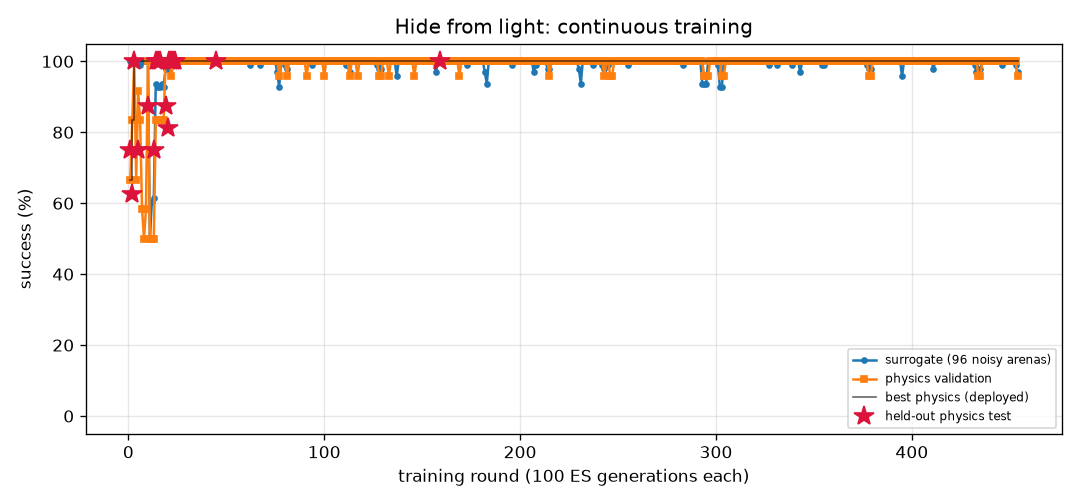
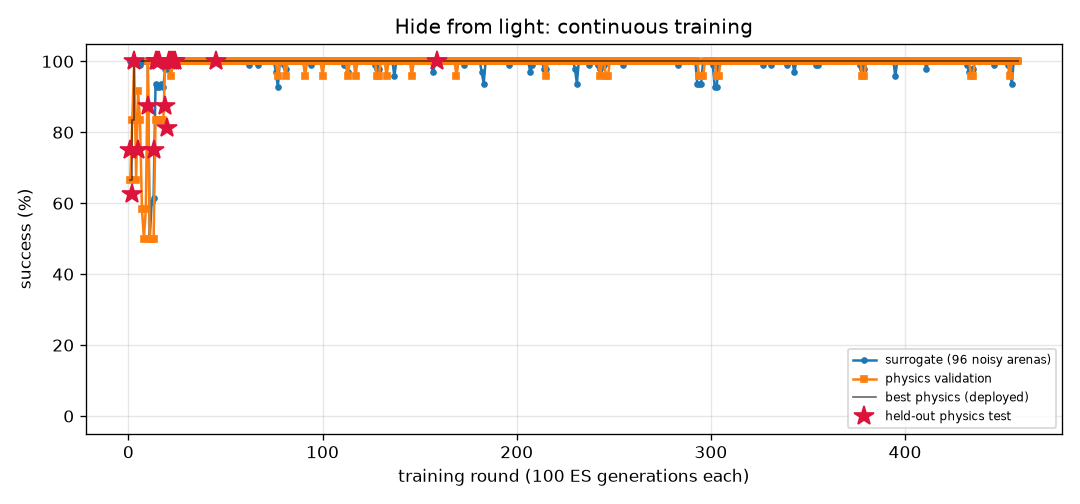
FlyLab: daily review 2026-11-01 — 7/7 optimal, all fresh checks 100%

diff --git a/projects/09_flylab/training/odor_avoid/REPORT.md b/projects/09_flylab/training/odor_avoid/REPORT.md
@@ -1,14 +1,14 @@
 # Escape a bad smell (`odor_avoid`) — training report
 
-*Auto-generated by `train_brains.py`, last updated 2026-11-01T18:18:09.*
+*Auto-generated by `train_brains.py`, last updated 2026-11-01T19:04:34.*
 
 ![curve](curve.png)
 
 | | |
 |---|---|
-| rounds | 720 |
-| ES generations | 72000 |
-| physics runs | 14586 |
+| rounds | 725 |
+| ES generations | 72500 |
+| physics runs | 14706 |
 | status | **optimal** |
 | best brain | round 373: physics validation **100%** on 24 arenas, surrogate 97% |
 | held-out physics test | **97%** on 32 unseen arenas (95% CI 84%-99%) (errors: [62.0, 57.4, 62.6, 61.9, 59.0, 61.6, 56.5, 60.7, 31.7, 60.9, 63.1, 57.1, 61.1, 62.1, 61.5, 60.2, 62.2, 55.2, 62.1, 54.2, 61.3, 62.0, 58.0, 61.9, 59.8, 56.5, 56.3, 56.4, 56.3, 57.7, 61.9, 32.4]) |
@@ -17,11 +17,6 @@ Physics error per arena: mm gained away from source (> 6 without first approachi
 
 | round | level | gens | sigma | surrogate | physics val | val errors | test | note |
 |---:|---:|---:|---:|---:|---:|---|---:|---|
-| 681 | 3 | 68100 | 0.027 | 94% | 96% | [60.3, 59.4, 55.9, 58.7, 60.6, 61.5, 61.2, 60.1, 61.1, 58.9, 60.5, 61.5, 51.5, 56.0, 44.2, 61.7, 61.4, 61.5, 50.4, 58.6, 61.3, 60.7, 58.4, 61.1] |  | restart from best |
-| 682 | 3 | 68200 | 0.026 | 95% | 100% | [63.4, 57.7, 57.9, 58.5, 62.0, 62.3, 61.4, 50.9, 59.5, 60.1, 62.2, 62.1, 54.6, 58.3, 51.5, 61.5, 62.0, 60.4, 55.1, 58.6, 62.2, 59.9, 57.6, 51.4] |  |  |
-| 683 | 3 | 68300 | 0.027 | 97% | 96% | [61.6, 60.4, 56.2, 60.1, 60.6, 60.8, 60.7, 45.5, 61.3, 32.3, 60.8, 61.4, 51.3, 55.9, 29.7, 59.9, 61.1, 60.8, 54.5, 59.5, 61.2, 44.0, 56.7, 59.6] |  |  |
-| 684 | 3 | 68400 | 0.026 | 92% | 88% | [60.0, 54.9, 53.2, 53.7, 60.8, 60.0, 59.8, 46.2, 60.4, 58.7, 59.0, 60.4, 48.5, 55.0, 49.9, 61.0, 60.8, 60.5, 52.3, 54.6, 60.6, 53.7, 57.7, 55.7] |  |  |
-| 685 | 3 | 68500 | 0.029 | 93% | 96% | [62.3, 60.5, 56.1, 56.3, 55.7, 57.6, 61.3, 60.1, 60.0, 42.6, 19.0, 61.8, 49.8, 56.2, 36.3, 61.1, 62.0, 60.7, 51.5, 58.1, 61.8, 60.7, 60.7, 61.7] |  | restart from best |
 | 686 | 3 | 68600 | 0.026 | 97% | 100% | [61.0, 59.1, 56.6, 60.6, 62.1, 61.6, 61.5, 53.4, 61.1, 44.7, 17.5, 61.4, 49.6, 56.0, 28.7, 60.3, 61.9, 58.7, 50.0, 59.6, 61.9, 53.6, 56.7, 61.0] |  |  |
 | 687 | 3 | 68700 | 0.026 | 97% | 100% | [62.6, 60.1, 56.6, 61.3, 62.5, 62.6, 62.1, 61.8, 62.7, 62.1, 62.5, 62.0, 55.2, 56.7, 51.8, 62.5, 62.2, 62.7, 52.6, 57.0, 62.0, 61.1, 61.3, 62.4] |  |  |
 | 688 | 3 | 68800 | 0.026 | 96% | 96% | [60.2, 57.0, 56.1, 57.0, 59.0, 59.0, 60.7, 56.6, 60.6, 44.2, 26.7, 60.7, 47.2, 55.5, 9.5, 55.6, 60.7, 54.4, 49.4, 56.1, 61.0, 58.2, 54.4, 58.3] |  |  |
@@ -57,3 +52,8 @@ Physics error per arena: mm gained away from source (> 6 without first approachi
 | 718 | 3 | 71800 | 0.026 | 94% | 96% | [62.8, 61.4, 56.2, 55.6, 62.4, 62.1, 61.2, 36.2, 61.4, 56.6, 60.8, 62.1, 52.2, 54.1, 40.6, 60.7, 62.3, 61.7, 55.0, 59.3, 62.2, 50.8, 59.8, 45.6] |  |  |
 | 719 | 3 | 71900 | 0.028 | 93% | 100% | [62.5, 58.2, 58.1, 57.5, 60.4, 60.2, 61.6, 55.1, 62.1, 39.1, 48.0, 60.5, 52.6, 55.2, 33.6, 61.9, 61.5, 58.7, 52.2, 59.8, 60.6, 62.1, 60.2, 62.9] |  |  |
 | 720 | 3 | 72000 | 0.028 | 95% | 96% | [63.3, 61.3, 58.8, 61.5, 61.8, 63.0, 62.2, 60.5, 60.6, 62.9, 62.3, 60.7, 55.1, 58.4, 51.6, 62.4, 61.7, 62.9, 55.6, 61.1, 61.0, 63.0, 61.8, 63.0] |  |  |
+| 721 | 3 | 72100 | 0.027 | 95% | 96% | [63.1, 61.2, 58.4, 61.3, 61.5, 62.2, 61.1, 51.5, 61.2, 59.8, 60.7, 60.6, 52.3, 57.7, 46.3, 61.9, 59.7, 62.0, 53.3, 59.2, 59.9, 61.6, 59.9, 62.3] |  | restart from best |
+| 722 | 3 | 72200 | 0.026 | 95% | 96% | [59.6, 56.3, 55.3, 55.2, 58.7, 59.4, 60.3, 58.3, 60.3, 58.4, 40.7, 60.4, 35.7, 51.4, 28.6, 59.5, 60.4, 58.3, 45.1, 55.7, 60.2, 58.0, 54.7, 58.6] |  |  |
+| 723 | 3 | 72300 | 0.027 | 97% | 100% | [59.2, 59.2, 56.0, 59.9, 60.5, 57.0, 61.1, 55.4, 60.8, 57.3, 48.0, 60.6, 49.5, 55.6, 7.1, 60.8, 60.7, 53.5, 49.8, 55.7, 60.9, 58.7, 59.9, 51.4] |  |  |
+| 724 | 3 | 72400 | 0.026 | 98% | 92% | [58.9, 57.0, 54.7, 58.3, 59.5, 57.0, 59.1, 55.8, 59.3, 41.5, 5.1, 60.1, 48.5, 53.7, 23.2, 36.4, 59.9, 54.6, 48.5, 54.7, 60.1, 53.7, 58.3, 57.3] |  |  |
+| 725 | 3 | 72500 | 0.025 | 98% | 96% | [56.5, 51.7, 52.5, 53.5, 54.2, 47.2, 53.2, 38.3, 53.9, 49.7, 50.3, 56.1, 45.2, 50.2, 39.0, 53.7, 56.2, 46.2, 48.5, 50.0, 55.8, 55.0, 53.2, 53.2] |  | restart from best |

diff --git a/projects/09_flylab/training/light_avoid/REPORT.md b/projects/09_flylab/training/light_avoid/REPORT.md
@@ -1,14 +1,14 @@
 # Hide from light (`light_avoid`) — training report
 
-*Auto-generated by `train_brains.py`, last updated 2026-11-01T15:37:53.*
+*Auto-generated by `train_brains.py`, last updated 2026-11-01T19:13:43.*
 
 ![curve](curve.png)
 
 | | |
 |---|---|
-| rounds | 454 |
-| ES generations | 45400 |
-| physics runs | 11168 |
+| rounds | 458 |
+| ES generations | 45800 |
+| physics runs | 11264 |
 | status | **optimal** |
 | best brain | round 159: physics validation **100%** on 24 arenas, surrogate 100% |
 | held-out physics test | **100%** on 32 unseen arenas (95% CI 89%-100%) (errors: [14.4, 56.1, 58.0, 57.9, 57.5, 14.0, 14.4, 56.6, 56.8, 13.3, 14.1, 56.6, 57.6, 13.1, 57.3, 55.9, 57.2, 55.0, 55.2, 53.9, 55.2, 12.4, 53.8, 53.7, 14.1, 13.7, 55.0, 57.8, 56.2, 13.1, 52.8, 56.5]) |
@@ -17,10 +17,6 @@ Physics error per arena: mm gained away from source (> 6 without first approachi
 
 | round | level | gens | sigma | surrogate | physics val | val errors | test | note |
 |---:|---:|---:|---:|---:|---:|---|---:|---|
-| 415 | 3 | 41500 | 0.024 | 100% | 100% | [57.2, 61.9, 61.6, 57.8, 61.7, 58.6, 60.4, 14.5, 57.0, 13.3, 60.1, 61.5, 14.4, 59.5, 61.7, 57.3, 14.2, 62.2, 62.3, 14.4, 58.5, 60.3, 59.9, 60.9] |  | restart from best |
-| 416 | 3 | 41600 | 0.024 | 100% | 100% | [57.0, 58.8, 58.6, 56.7, 58.5, 57.0, 57.4, 14.5, 54.1, 13.3, 57.8, 58.3, 14.4, 56.4, 58.7, 56.6, 14.2, 59.0, 59.3, 14.4, 55.0, 57.5, 57.2, 57.8] |  |  |
-| 417 | 3 | 41700 | 0.024 | 100% | 100% | [43.2, 44.1, 43.7, 44.7, 47.1, 42.8, 41.5, 14.5, 43.8, 13.3, 47.0, 47.5, 14.4, 46.9, 43.8, 44.8, 14.2, 46.9, 44.6, 14.4, 43.3, 46.8, 42.9, 47.4] |  |  |
-| 418 | 3 | 41800 | 0.024 | 100% | 100% | [48.5, 46.6, 46.2, 47.7, 49.5, 49.0, 44.5, 14.5, 48.7, 13.3, 49.1, 49.6, 14.4, 48.7, 46.1, 48.6, 14.2, 49.5, 45.7, 14.4, 47.9, 49.5, 45.9, 48.7] |  |  |
 | 419 | 3 | 41900 | 0.024 | 100% | 100% | [55.4, 57.8, 57.7, 55.5, 56.3, 55.3, 57.0, 14.5, 51.5, 13.3, 55.3, 56.0, 14.4, 55.2, 57.8, 54.9, 14.2, 57.0, 58.2, 14.4, 53.0, 54.7, 57.0, 55.4] |  | restart from best |
 | 420 | 3 | 42000 | 0.024 | 100% | 100% | [50.0, 54.3, 54.0, 51.8, 54.5, 50.2, 52.4, 14.5, 40.2, 13.4, 53.0, 54.3, 14.4, 53.7, 54.2, 53.1, 14.2, 54.8, 54.6, 14.4, 51.3, 53.5, 52.2, 54.0] |  |  |
 | 421 | 3 | 42100 | 0.024 | 100% | 100% | [55.6, 58.0, 57.8, 55.6, 57.2, 54.6, 56.5, 14.5, 53.5, 13.3, 57.1, 57.1, 14.3, 55.0, 57.9, 54.7, 14.2, 57.8, 58.2, 14.4, 55.1, 57.0, 56.1, 56.4] |  |  |
@@ -57,3 +53,7 @@ Physics error per arena: mm gained away from source (> 6 without first approachi
 | 452 | 3 | 45200 | 0.024 | 100% | 100% | [51.2, 54.7, 54.2, 52.9, 56.2, 52.3, 52.6, 14.5, 53.5, 13.3, 56.4, 56.4, 14.4, 54.6, 54.7, 51.5, 14.2, 56.5, 54.4, 14.4, 54.0, 56.4, 53.3, 55.8] |  |  |
 | 453 | 3 | 45300 | 0.024 | 99% | 100% | [35.6, 37.5, 36.2, 37.2, 40.8, 36.3, 35.5, 14.5, 39.8, 13.5, 41.0, 41.5, 14.4, 41.6, 36.5, 30.3, 14.2, 39.6, 37.9, 14.4, 8.4, 42.2, 34.3, 41.5] |  |  |
 | 454 | 3 | 45400 | 0.025 | 97% | 96% | [9.8, 57.4, 56.5, 52.6, 58.8, 53.9, 54.7, 14.5, 43.9, 13.3, 57.6, 58.3, 14.4, 57.2, 56.7, 8.9, 14.2, 58.5, 57.8, 14.4, 8.8, 56.0, 55.4, 58.2] |  |  |
+| 455 | 3 | 45500 | 0.026 | 94% | 100% | [6.1, 57.9, 57.9, 7.4, 59.6, 8.6, 55.9, 14.5, 53.2, 13.4, 55.7, 59.2, 14.4, 57.7, 58.0, 9.0, 14.2, 59.3, 59.2, 14.4, 8.7, 57.2, 56.4, 58.9] |  | restart from best |
+| 456 | 3 | 45600 | 0.024 | 100% | 100% | [51.7, 55.4, 55.0, 52.8, 57.1, 53.2, 53.1, 14.5, 55.0, 13.3, 56.5, 57.0, 14.3, 55.8, 54.8, 51.8, 14.2, 57.1, 55.7, 14.4, 49.4, 56.7, 54.0, 56.6] |  |  |
+| 457 | 3 | 45700 | 0.024 | 100% | 100% | [51.8, 55.7, 55.5, 51.9, 55.7, 52.8, 54.1, 14.5, 46.5, 13.6, 55.5, 55.5, 14.4, 54.1, 55.5, 51.1, 14.2, 56.1, 56.0, 14.4, 53.3, 55.4, 53.8, 55.1] |  |  |
+| 458 | 3 | 45800 | 0.024 | 100% | 100% | [56.6, 60.6, 60.3, 57.5, 60.2, 57.3, 58.9, 14.5, 51.5, 13.5, 59.8, 60.1, 14.4, 57.9, 60.4, 55.9, 14.2, 60.7, 60.7, 14.4, 57.9, 59.8, 58.8, 59.5] |  |  |

diff --git a/projects/09_flylab/training/turn/REPORT.md b/projects/09_flylab/training/turn/REPORT.md
@@ -1,14 +1,14 @@
 # Turn in place (`turn`) — training report
 
-*Auto-generated by `train_brains.py`, last updated 2026-11-01T18:20:12.*
+*Auto-generated by `train_brains.py`, last updated 2026-11-01T18:34:36.*
 
 ![curve](curve.png)
 
 | | |
 |---|---|
-| rounds | 791 |
-| ES generations | 79100 |
-| physics runs | 19230 |
+| rounds | 793 |
+| ES generations | 79300 |
+| physics runs | 19278 |
 | status | **optimal** |
 | best brain | round 80: physics validation **100%** on 24 arenas, surrogate 100% |
 | held-out physics test | **97%** on 32 unseen arenas (95% CI 84%-99%) (errors: [1.6, 3.3, 6.3, 3.7, 1.1, 0.4, 2.4, 2.9, 0.1, 2.6, 0.5, 2.7, 1.5, 3.1, 4.5, 0.2, 0.5, 1.1, 2.0, 4.4, 2.8, 3.2, 0.3, 2.2, 0.5, 3.0, 0.3, 5.4, 0.4, 1.0, 4.7, 10.7]) |
@@ -17,8 +17,6 @@ Physics error per arena: deg from target heading (< 20 = success).
 
 | round | level | gens | sigma | surrogate | physics val | val errors | test | note |
 |---:|---:|---:|---:|---:|---:|---|---:|---|
-| 752 | 3 | 75200 | 0.025 | 100% | 92% | [6.7, 7.9, 1.5, 2.0, 8.6, 1.7, 2.4, 2.4, 4.6, 0.9, 3.6, 0.8, 3.0, 4.5, 3.8, 1.4, 0.8, 0.4, 1.5, 1.6, 6.6, 3.2, 3.9, 2.4] |  | restart from best |
-| 753 | 3 | 75300 | 0.024 | 100% | 75% | [1.0, 0.2, 5.6, 0.0, 1.6, 117.5, 8.0, 6.9, 6.9, 1.0, 6.0, 3.2, 1.4, 0.1, 2.4, 4.5, 2.9, 1.6, 4.2, 2.1, 3.2, 2.7, 7.2, 8.7] |  |  |
 | 754 | 3 | 75400 | 0.024 | 99% | 83% | [2.5, 5.0, 4.4, 1.4, 0.0, 0.4, 7.8, 9.5, 8.1, 2.5, 6.2, 3.8, 2.7, 0.4, 5.4, 14.4, 3.4, 4.7, 14.7, 5.2, 1.9, 4.0, 8.2, 7.5] |  |  |
 | 755 | 3 | 75500 | 0.025 | 100% | 96% | [7.4, 6.4, 5.4, 1.4, 1.8, 1.8, 7.5, 7.5, 8.8, 3.4, 5.1, 6.0, 1.6, 2.4, 5.4, 11.0, 6.1, 13.1, 15.0, 15.1, 0.4, 5.8, 7.7, 4.6] |  |  |
 | 756 | 3 | 75600 | 0.024 | 99% | 100% | [8.4, 13.7, 5.5, 1.9, 2.4, 6.3, 14.2, 7.0, 7.4, 12.8, 4.9, 6.7, 1.8, 2.9, 4.6, 14.3, 6.7, 5.2, 14.0, 13.9, 1.6, 5.9, 7.4, 7.5] |  | restart from best |
@@ -57,3 +55,5 @@ Physics error per arena: deg from target heading (< 20 = success).
 | 789 | 3 | 78900 | 0.024 | 99% | 79% | [0.7, 5.2, 9.2, 0.3, 10.3, 4.8, 7.8, 8.3, 8.6, 1.7, 6.3, 3.8, 2.5, 0.4, 4.0, 5.0, 3.5, 12.1, 5.5, 4.3, 2.0, 2.9, 8.0, 8.1] |  |  |
 | 790 | 3 | 79000 | 0.025 | 99% | 96% | [5.3, 2.4, 0.0, 3.0, 0.1, 0.7, 2.8, 3.1, 5.2, 10.6, 4.0, 1.2, 0.9, 0.9, 3.0, 2.9, 1.6, 0.9, 11.2, 10.4, 5.9, 1.3, 4.8, 4.1] |  |  |
 | 791 | 3 | 79100 | 0.025 | 98% | 92% | [4.4, 17.6, 13.5, 4.9, 18.2, 7.7, 10.6, 10.7, 9.8, 5.0, 7.5, 9.6, 5.0, 5.5, 6.3, 16.8, 9.6, 18.7, 8.7, 7.3, 2.2, 6.7, 9.7, 12.1] |  |  |
+| 792 | 3 | 79200 | 0.025 | 99% | 75% | [5.8, 0.3, 7.5, 0.3, 1.0, 2.0, 5.4, 3.2, 6.5, 13.6, 5.6, 3.9, 0.3, 0.5, 5.3, 2.6, 3.5, 3.5, 3.0, 4.7, 3.4, 1.9, 6.3, 6.9] |  | restart from best |
+| 793 | 3 | 79300 | 0.024 | 99% | 67% | [7.1, 2.1, 3.2, 1.1, 0.1, 1.4, 5.0, 3.0, 6.9, 13.7, 4.7, 0.2, 1.2, 1.8, 4.9, 3.4, 1.2, 1.7, 0.2, 1.1, 6.8, 0.6, 3.5, 6.1] |  |  |

diff --git a/projects/09_flylab/training/TRAINING.md b/projects/09_flylab/training/TRAINING.md
@@ -1,15 +1,15 @@
 # FlyLab brains — continuous training log
 
-*Auto-generated by `train_brains.py`, last updated 2026-11-01T18:20:12.*
+*Auto-generated by `train_brains.py`, last updated 2026-11-01T19:13:43.*
 
 Every skill has its own brain and its own training process: surrogate ES rounds, physics validation in MuJoCo, keep-the-best selection, and a held-out physics test that is never used for selection. See each skill's report for its full round-by-round history. Mastery is progressive: passing a level (100% physics validation, >=95% surrogate) doubles the validation and test arena sets; a brain is **optimal** once it holds up at level 3 (>=95% of 24 validation arenas) AND scores >=90% on the 32 held-out test arenas. Test columns show 95% Wilson confidence intervals.
 
 | skill | rounds | ES generations | physics runs | surrogate | physics val | **physics test** | status |
 |---|---:|---:|---:|---:|---:|---:|---|
 | [Walk forward](walk_forward/REPORT.md) | 253 | 25300 | 6086 | 100% | 100% of 24 | 100% of 32 (CI 89-100%) | **optimal** |
-| [Turn in place](turn/REPORT.md) | 791 | 79100 | 19230 | 100% | 100% of 24 | 97% of 32 (CI 84-99%) | **optimal** |
+| [Turn in place](turn/REPORT.md) | 793 | 79300 | 19278 | 100% | 100% of 24 | 97% of 32 (CI 84-99%) | **optimal** |
 | [Go to a location](goto/REPORT.md) | 208 | 20800 | 4942 | 100% | 100% of 24 | 100% of 32 (CI 89-100%) | **optimal** |
 | [Find food by smell](odor_seek/REPORT.md) | 178 | 17800 | 3702 | 100% | 100% of 24 | 100% of 32 (CI 89-100%) | **optimal** |
-| [Escape a bad smell](odor_avoid/REPORT.md) | 720 | 72000 | 14586 | 97% | 100% of 24 | 97% of 32 (CI 84-99%) | **optimal** |
+| [Escape a bad smell](odor_avoid/REPORT.md) | 725 | 72500 | 14706 | 97% | 100% of 24 | 97% of 32 (CI 84-99%) | **optimal** |
 | [Walk toward light](light_seek/REPORT.md) | 403 | 40300 | 6552 | 100% | 100% of 24 | 100% of 32 (CI 89-100%) | **optimal** |
-| [Hide from light](light_avoid/REPORT.md) | 454 | 45400 | 11168 | 100% | 100% of 24 | 100% of 32 (CI 89-100%) | **optimal** |
+| [Hide from light](light_avoid/REPORT.md) | 458 | 45800 | 11264 | 100% | 100% of 24 | 100% of 32 (CI 89-100%) | **optimal** |
